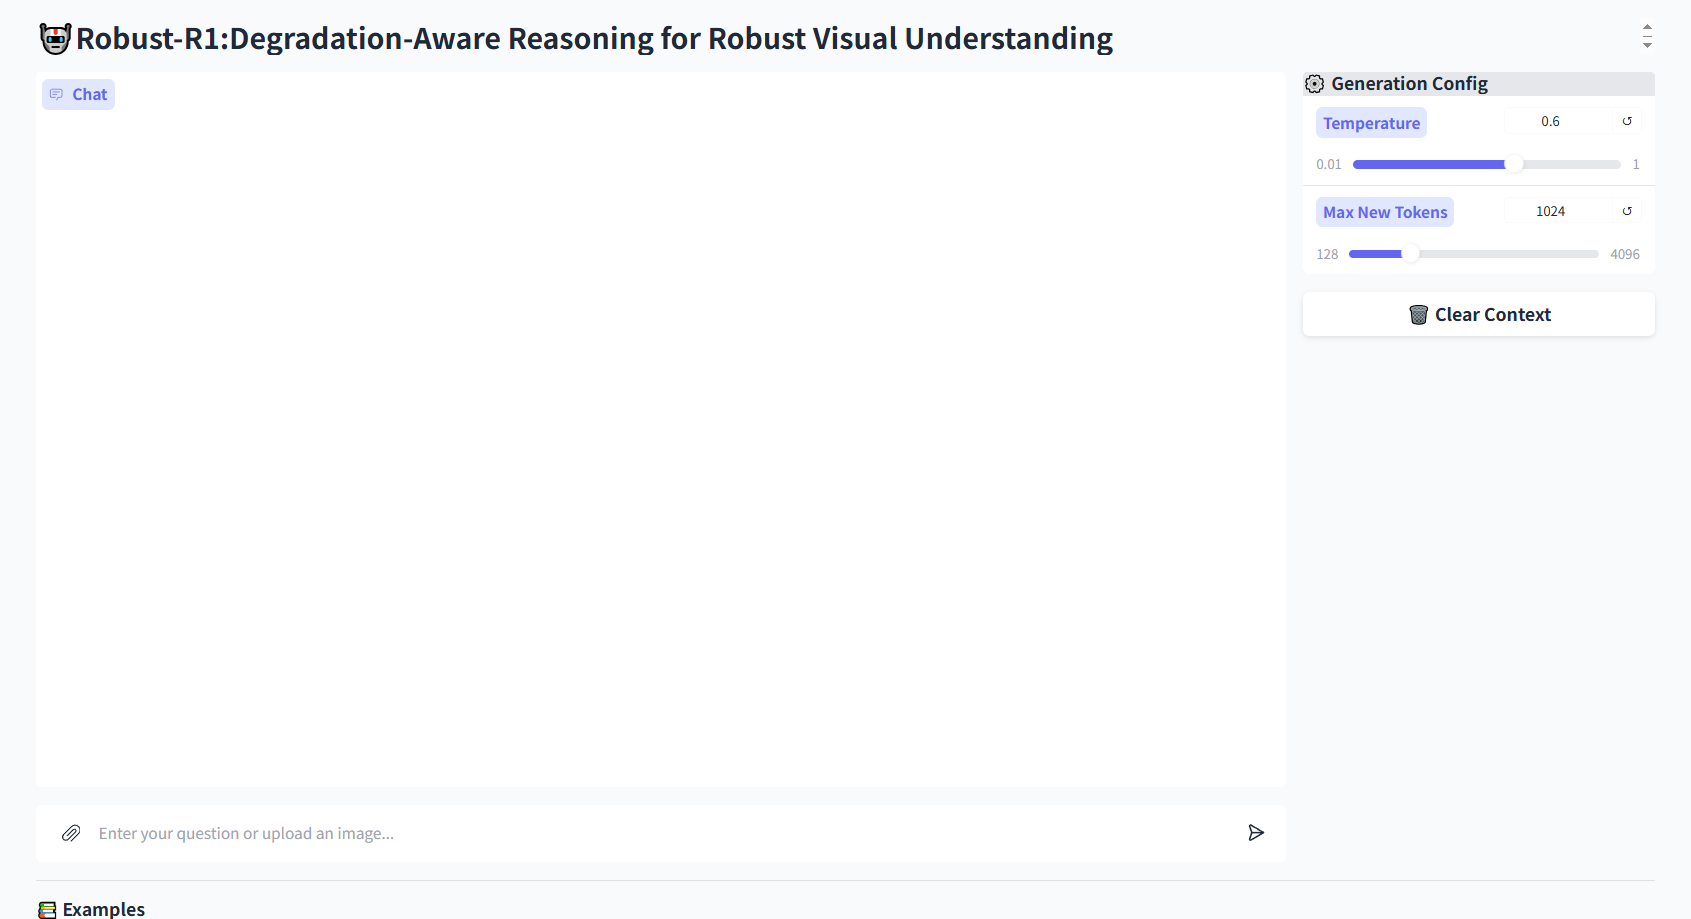
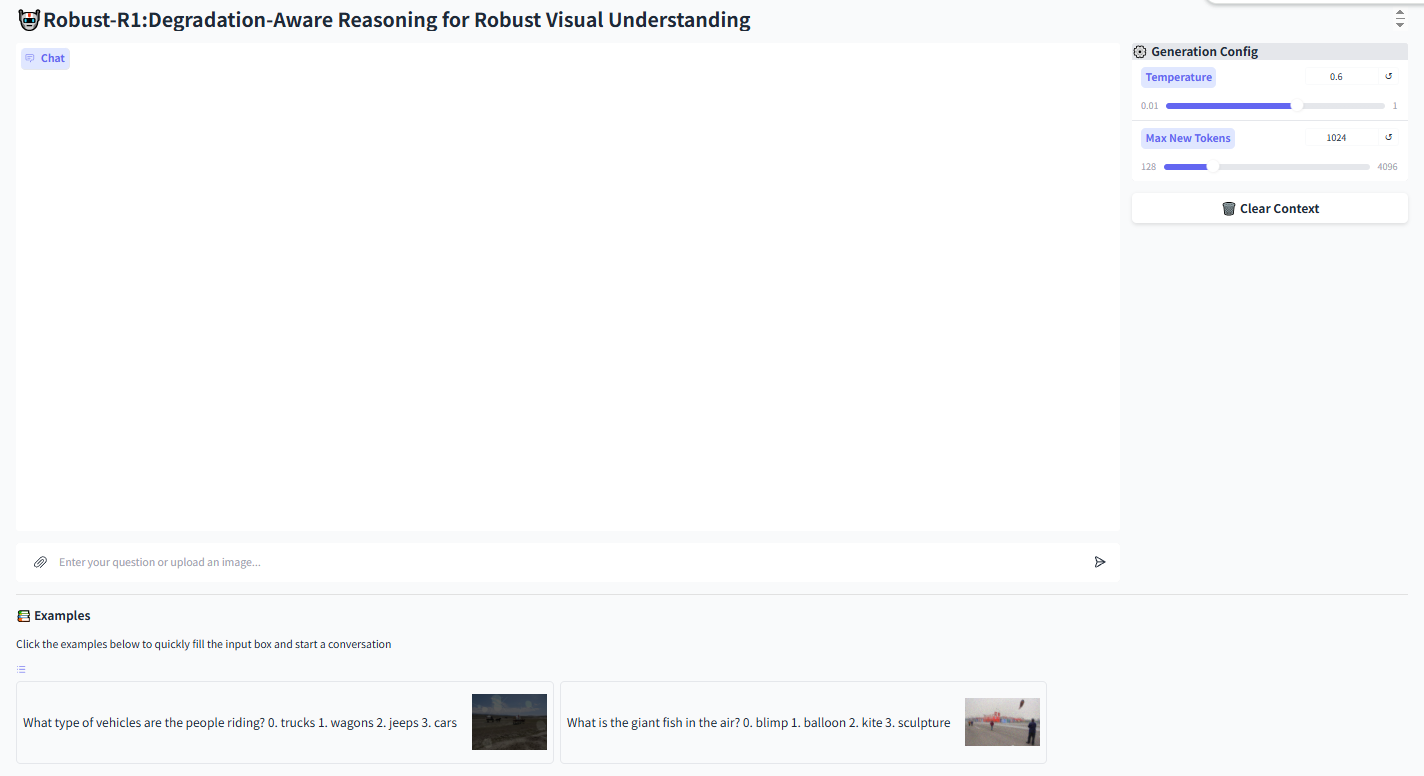
Update

diff --git a/demo.py b/demo.py
@@ -1,0 +1,209 @@
+#!/usr/bin/env python3
+"""
+CLI Demo for Robust-R1: Visual Question Answering with Degradation-Aware Reasoning.
+"""
+
+import os
+import sys
+import torch
+import argparse
+from transformers import Qwen2_5_VLForConditionalGeneration, AutoProcessor
+from qwen_vl_utils import process_vision_info
+
+# Default model path - can be overridden by MODEL_PATH environment variable
+# Users can set MODEL_PATH to their local model path or HuggingFace model name
+DEFAULT_MODEL_PATH = "Jiaqi-hkust/Robust-R1-RL"  # HuggingFace model name
+MODEL_PATH = os.getenv("MODEL_PATH", DEFAULT_MODEL_PATH)
+
+# Fixed image path for demo
+FIXED_IMAGE_PATH = "assets/1.jpg"
+
+SYS_PROMPT = """First output the the types of degradations in image briefly in <TYPE> <TYPE_END> tags, 
+and then output what effects do these degradation have on the image in <INFLUENCE> <INFLUENCE_END> tags, 
+then based on the strength of degradation, output an APPROPRIATE length for the reasoning process in <REASONING> <REASONING_END> tags, 
+and then summarize the content of reasoning and the give the answer in <CONCLUSION> <CONCLUSION_END> tags,
+provides the user with the answer briefly in <ANSWER> <ANSWER_END>."""
+
+DEFAULT_TEMPERATURE = 0.6
+DEFAULT_MAX_TOKENS = 1024
+
+
+class ModelHandler:
+    def __init__(self, model_path):
+        self.model_path = model_path
+        self.model = None
+        self.processor = None
+        self._load_model()
+
+    def _load_model(self):
+        try:
+            print("Loading model, this may take a few minutes...")
+            self.processor = AutoProcessor.from_pretrained(self.model_path)
+            self.model = Qwen2_5_VLForConditionalGeneration.from_pretrained(
+                self.model_path,
+                torch_dtype=torch.bfloat16,
+                device_map="auto",
+                attn_implementation="flash_attention_2" if torch.cuda.is_available() and torch.cuda.get_device_capability()[0] >= 8 else "eager"
+            )
+            print("Model loaded successfully!")
+        except Exception as e:
+            print(f"Model loading failed: {e}")
+            raise e
+
+    def predict(self, question, image_path, temperature=DEFAULT_TEMPERATURE, max_tokens=DEFAULT_MAX_TOKENS):
+        """
+        Generate response for the given question and image.
+        
+        Args:
+            question: User question
+            image_path: Path to the image
+            temperature: Generation temperature
+            max_tokens: Maximum number of tokens to generate
+        
+        Returns:
+            Generated text response
+        """
+        sys_prompt_formatted = " ".join(SYS_PROMPT.split())
+        full_text = f"{question}\n{sys_prompt_formatted}"
+        
+        messages = [
+            {
+                "role": "user",
+                "content": [
+                    {"type": "text", "text": full_text},
+                    {"type": "image", "image": image_path},
+                ],
+            }
+        ]
+        
+        text_prompt = self.processor.apply_chat_template(
+            messages, tokenize=False, add_generation_prompt=True
+        )
+        
+        image_inputs, video_inputs = process_vision_info(messages)
+        
+        inputs = self.processor(
+            text=[text_prompt],
+            images=image_inputs,
+            videos=video_inputs,
+            padding=True,
+            return_tensors="pt"
+        )
+        
+        inputs = inputs.to(self.model.device)
+        
+        generation_kwargs = dict(
+            **inputs,
+            max_new_tokens=max_tokens,
+            temperature=temperature,
+            do_sample=True if temperature > 0 else False,
+        )
+        
+        try:
+            print("Generating response...")
+            with torch.no_grad():
+                generated_ids = self.model.generate(**generation_kwargs)
+            
+            input_length = inputs['input_ids'].shape[1]
+            generated_ids = generated_ids[0][input_length:]
+            
+            generated_text = self.processor.tokenizer.decode(
+                generated_ids, 
+                skip_special_tokens=True
+            )
+            
+            return generated_text
+                
+        except Exception as e:
+            import traceback
+            error_details = traceback.format_exc()
+            print(f"Generation error: {error_details}")
+            raise e
+
+
+def main():
+    parser = argparse.ArgumentParser(
+        description="CLI Demo for Robust-R1: Visual Question Answering with Degradation-Aware Reasoning",
+        formatter_class=argparse.RawDescriptionHelpFormatter,
+        epilog="""
+Examples:
+    python demo.py "What type of vehicles are the people riding?"
+    python demo.py "What is in the image?" --temperature 0.7 --max-tokens 2048
+    python demo.py "Your question" --image /path/to/image.jpg
+        """
+    )
+    
+    parser.add_argument(
+        "question",
+        type=str,
+        help="Question to ask about the image"
+    )
+    
+    parser.add_argument(
+        "--image", "-i",
+        type=str,
+        default=FIXED_IMAGE_PATH,
+        help=f"Path to the input image (default: {FIXED_IMAGE_PATH})"
+    )
+    
+    parser.add_argument(
+        "--temperature", "-t",
+        type=float,
+        default=DEFAULT_TEMPERATURE,
+        help=f"Generation temperature (default: {DEFAULT_TEMPERATURE})"
+    )
+    
+    parser.add_argument(
+        "--max-tokens", "-m",
+        type=int,
+        default=DEFAULT_MAX_TOKENS,
+        help=f"Maximum number of tokens to generate (default: {DEFAULT_MAX_TOKENS})"
+    )
+    
+    parser.add_argument(
+        "--model-path",
+        type=str,
+        default=MODEL_PATH,
+        help=f"Model path or HuggingFace model name (default: {MODEL_PATH}). Can also be set via MODEL_PATH environment variable."
+    )
+    
+    args = parser.parse_args()
+    
+    if not os.path.exists(args.image):
+        print(f"Error: Image file does not exist: {args.image}")
+        sys.exit(1)
+    
+    print(f"Model path: {args.model_path}")
+    print(f"Image path: {args.image}")
+    print(f"Question: {args.question}")
+    print(f"Temperature: {args.temperature}, Max tokens: {args.max_tokens}")
+    print("-" * 80)
+    
+    model_handler = ModelHandler(args.model_path)
+    
+    try:
+        response = model_handler.predict(
+            question=args.question,
+            image_path=args.image,
+            temperature=args.temperature,
+            max_tokens=args.max_tokens
+        )
+        
+        print("\n" + "=" * 80)
+        print("Model Response:")
+        print("=" * 80)
+        print(response)
+        print("=" * 80)
+        
+    except KeyboardInterrupt:
+        print("\n\nUser interrupted")
+        sys.exit(0)
+    except Exception as e:
+        print(f"\nError: {e}")
+        import traceback
+        traceback.print_exc()
+        sys.exit(1)
+
+
+if __name__ == "__main__":
+    main()

diff --git a/app.py b/app.py
@@ -206,8 +206,8 @@ def create_chat_ui():
         example_images_dir = os.path.join(project_dir, "assets")
         
         examples_config = [
-            ("What type of vehicles are the people riding?\n0. trucks\n1. wagons\n2. jeeps\n3. cars\n", os.path.join(example_images_dir, "92.jpg")),
-            ("What is the giant fish in the air?\n0. blimp\n1. balloon\n2. kite\n3. sculpture\n", os.path.join(example_images_dir, "568.jpg")),
+            ("What type of vehicles are the people riding?\n0. trucks\n1. wagons\n2. jeeps\n3. cars\n", os.path.join(example_images_dir, "1.jpg")),
+            ("What is the giant fish in the air?\n0. blimp\n1. balloon\n2. kite\n3. sculpture\n", os.path.join(example_images_dir, "2.jpg")),
         ]
         
         example_data = []

diff --git a/README.md b/README.md
@@ -69,6 +69,17 @@ and [Qifeng Chen](https://scholar.google.com/citations?hl=zh-CN&user=lLMX9hcAAAA
 
 ## ⏳ **Demo**
 
+### 🖥 CLI Demo
+
+Run the command-line demo with a question:
+
+  ```bash
+  export MODEL_PATH="your_model_name_or_path"
+  python demo.py "What type of vehicles are the people riding?\n0. trucks\n1. wagons\n2. jeeps\n3. cars\n"
+  ```
+
+### 🌐 GUI Demo
+
 - Set the model path as an environment variable and run the demo:
 
   ```bash
@@ -199,8 +210,14 @@ For R-Bench evaluation, we use [R-Bench](https://github.com/Q-Future/R-Bench) to
 
 If you find Robust-R1 useful for your research and applications, please cite using this BibTeX:
    ``` latex
-   
+   @inproceedings{tang2025robustr1,
+     title={Robust-R1: Degradation-Aware Reasoning for Robust Visual Understanding},
+     author={Tang, Jiaqi and Chen, Jianmin and Wei, Wei and Xu, Xiaogang and Liu, Runtao and Wu, Xiangyu and Xie, Qipeng and Wu, Jiafei and Zhang, Lei and Chen, Qifeng},
+     booktitle={Proceedings of the AAAI Conference on Artificial Intelligence},
+     year={2026},
+     note={Oral}
+   }
    ```
 ## 🤝 Acknowledgements
-We thank the authors of [VLM-R1](https://github.com/om-ai-lab/VLM-R1?tab=readme-ov-file) and [LLaMA-Factory](https://github.com/hiyouga/LLaMA-Factory) for their open-source contributions.
+We thank the authors of [VLM-R1](https://github.com/om-ai-lab/VLM-R1?tab=readme-ov-file), [LLaMA-Factory](https://github.com/hiyouga/LLaMA-Factory), and [R-Bench](https://github.com/Q-Future/R-Bench) for their open-source contributions.
 
